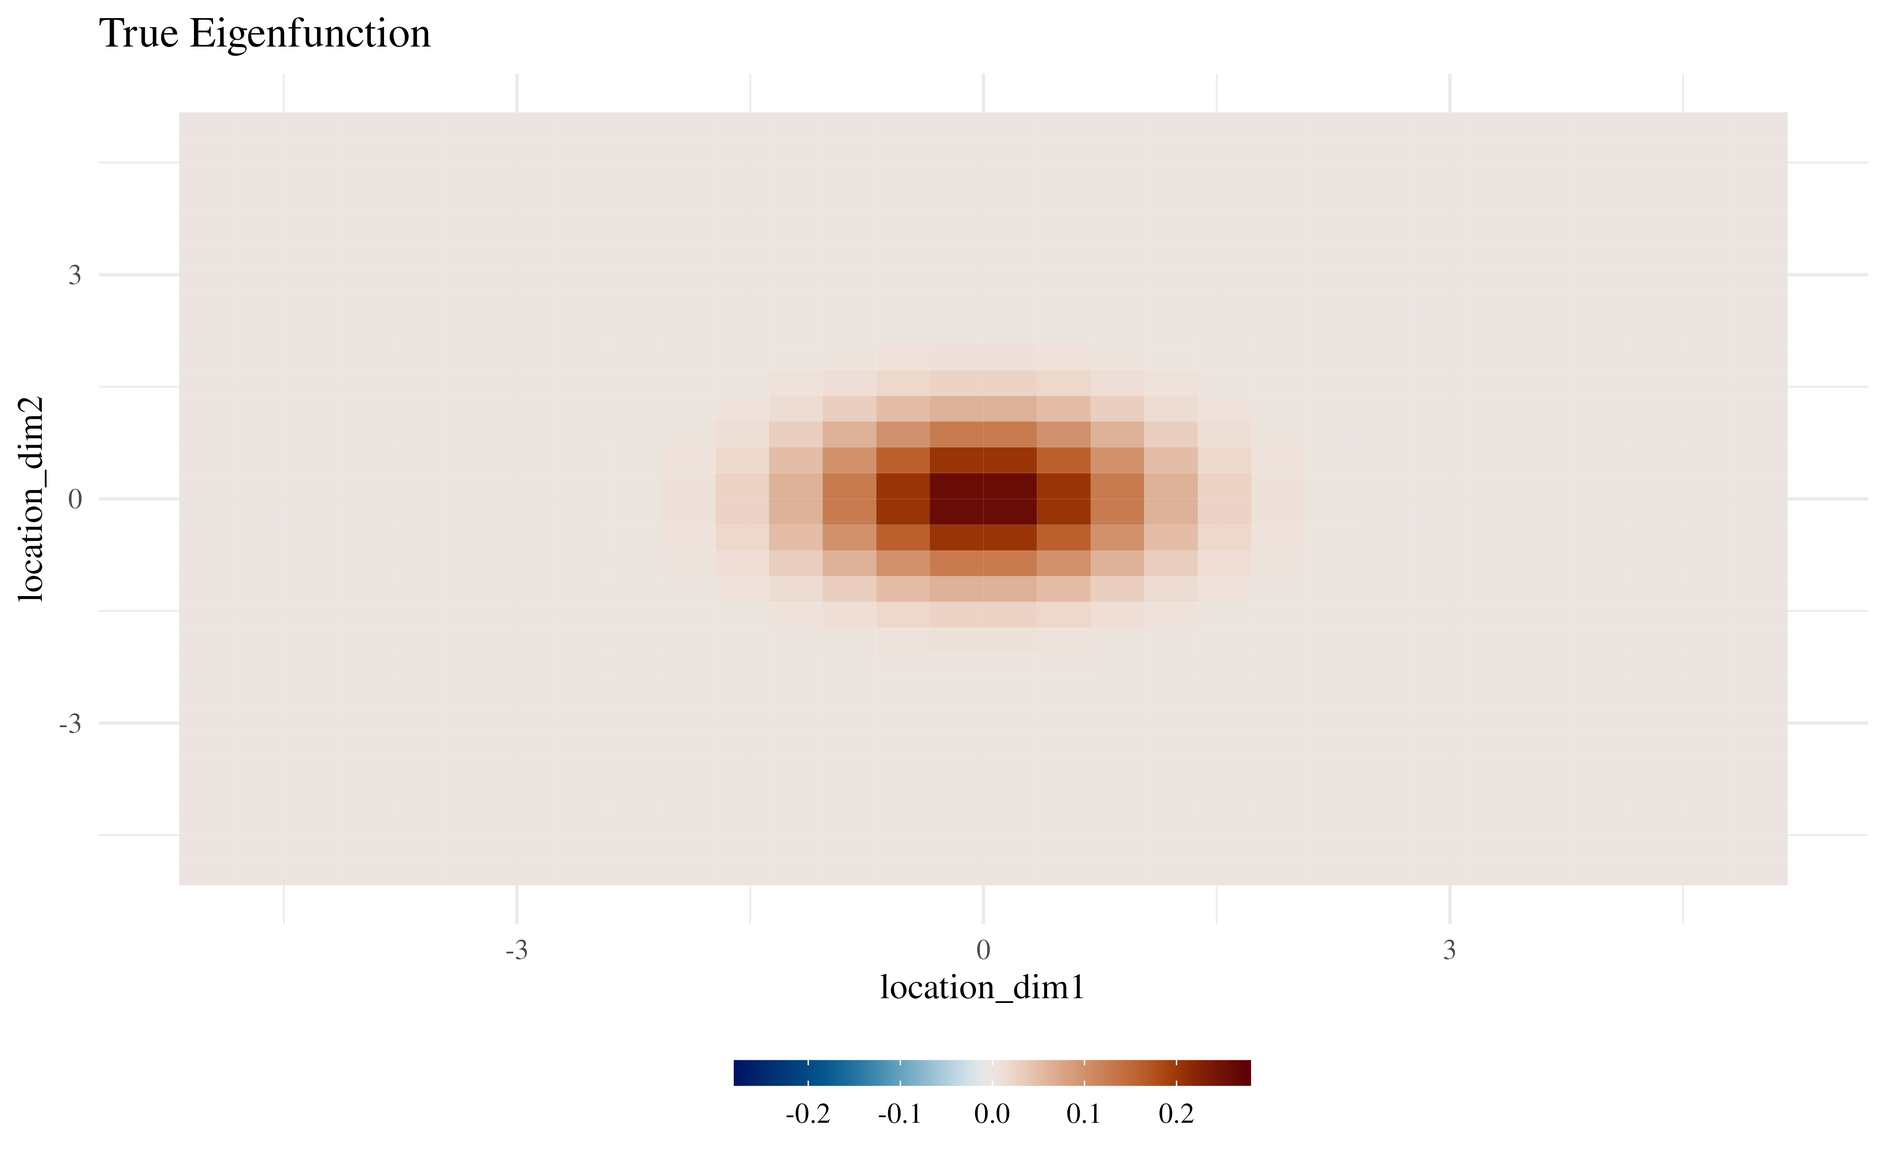
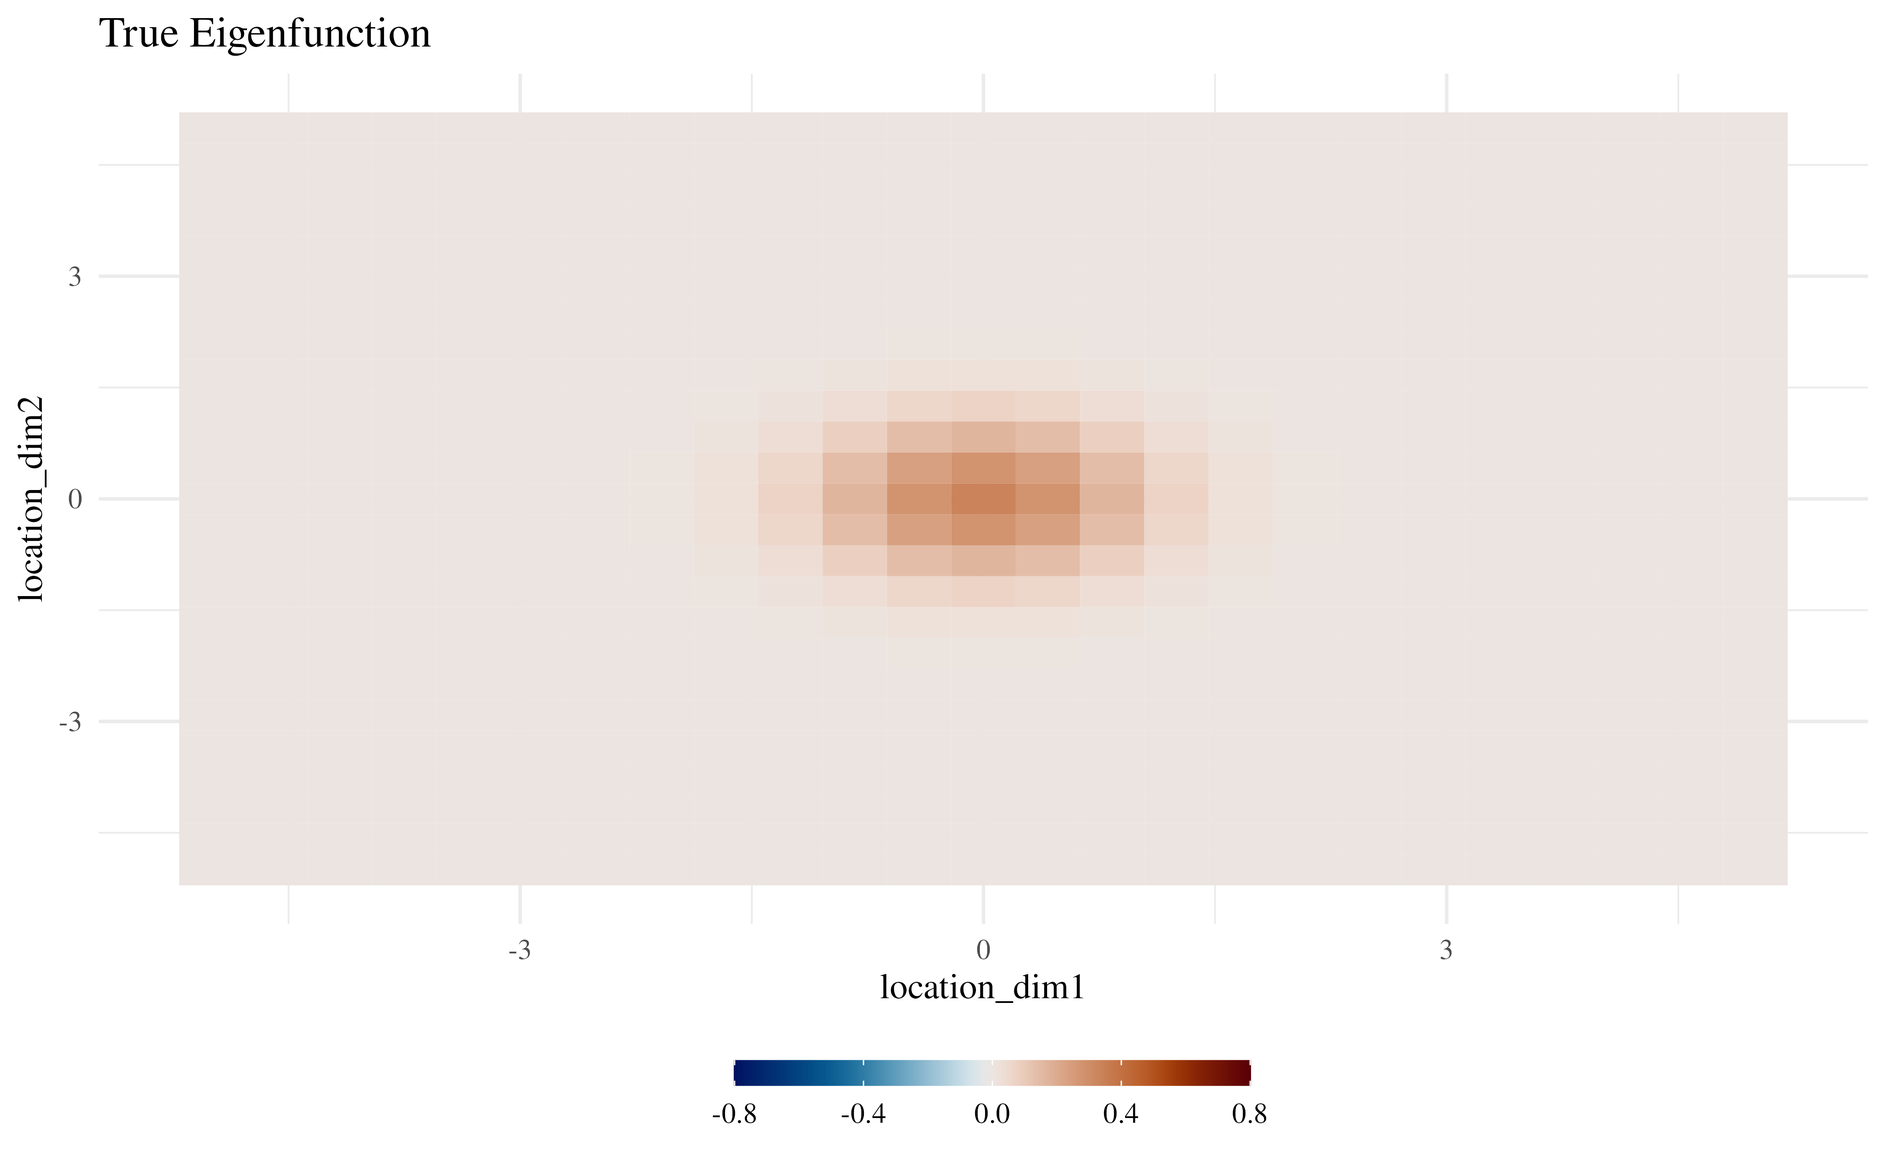
Deploying to gh-pages from @ egpivo/SpatPCA@987a5968560299c8126f24b69a79e6eec6030a43 🚀

Changed region(s): [[0.4041, 0.3418, 0.6528, 0.5283], [0.5595, 0.9323, 0.6217, 0.9634], [0.373, 0.9323, 0.4041, 0.9634]]

diff --git a/articles/demo-two-dim-location.html b/articles/demo-two-dim-location.html
@@ -33,7 +33,7 @@
       </button>
       <span class="navbar-brand">
         <a class="navbar-link" href="../index.html">SpatPCA</a>
-        <span class="version label label-default" data-toggle="tooltip" data-placement="bottom" title="">1.3.4</span>
+        <span class="version label label-default" data-toggle="tooltip" data-placement="bottom" title="">1.3.5</span>
       </span>
     </div>
 
@@ -123,7 +123,7 @@ data for capturing the most dominant spatial pattern</p>
 <span>  label.position <span class="op">=</span> <span class="st">"bottom"</span></span>
 <span><span class="op">)</span><span class="op">)</span></span>
 <span><span class="va">coltab</span> <span class="op">&lt;-</span> <span class="fu"><a href="https://rdrr.io/pkg/scico/man/scico.html" class="external-link">scico</a></span><span class="op">(</span><span class="fl">128</span>, palette <span class="op">=</span> <span class="st">"vik"</span><span class="op">)</span></span>
-<span><span class="va">color_scale_limit</span> <span class="op">&lt;-</span> <span class="fu"><a href="https://rdrr.io/r/base/c.html" class="external-link">c</a></span><span class="op">(</span><span class="op">-</span><span class="fl">.28</span>, <span class="fl">.28</span><span class="op">)</span></span></code></pre></div>
+<span><span class="va">color_scale_limit</span> <span class="op">&lt;-</span> <span class="fu"><a href="https://rdrr.io/r/base/c.html" class="external-link">c</a></span><span class="op">(</span><span class="op">-</span><span class="fl">.8</span>, <span class="fl">.8</span><span class="op">)</span></span></code></pre></div>
 </div>
 <div class="section level4">
 <h4 id="true-spatial-pattern-eigenfunction">True spatial pattern (eigenfunction)<a class="anchor" aria-label="anchor" href="#true-spatial-pattern-eigenfunction"></a>
@@ -135,8 +135,8 @@ of the curve.</li>
 </ul>
 <div class="sourceCode" id="cb2"><pre class="downlit sourceCode r">
 <code class="sourceCode R"><span><span class="fu"><a href="https://rdrr.io/r/base/Random.html" class="external-link">set.seed</a></span><span class="op">(</span><span class="fl">1024</span><span class="op">)</span></span>
-<span><span class="va">p</span> <span class="op">&lt;-</span> <span class="fl">30</span></span>
-<span><span class="va">n</span> <span class="op">&lt;-</span> <span class="fl">50</span></span>
+<span><span class="va">p</span> <span class="op">&lt;-</span> <span class="fl">25</span></span>
+<span><span class="va">n</span> <span class="op">&lt;-</span> <span class="fl">8</span></span>
 <span><span class="va">location</span> <span class="op">&lt;-</span></span>
 <span>  <span class="fu"><a href="https://rdrr.io/r/base/matrix.html" class="external-link">matrix</a></span><span class="op">(</span><span class="fu"><a href="https://rdrr.io/r/base/rep.html" class="external-link">rep</a></span><span class="op">(</span><span class="fu"><a href="https://rdrr.io/r/base/seq.html" class="external-link">seq</a></span><span class="op">(</span><span class="op">-</span><span class="fl">5</span>, <span class="fl">5</span>, length <span class="op">=</span> <span class="va">p</span><span class="op">)</span>, <span class="fl">2</span><span class="op">)</span>, nrow <span class="op">=</span> <span class="va">p</span>, ncol <span class="op">=</span> <span class="fl">2</span><span class="op">)</span></span>
 <span><span class="va">expanded_location</span> <span class="op">&lt;-</span> <span class="fu"><a href="https://rdrr.io/r/base/expand.grid.html" class="external-link">expand.grid</a></span><span class="op">(</span><span class="va">location</span><span class="op">[</span>, <span class="fl">1</span><span class="op">]</span>, <span class="va">location</span><span class="op">[</span>, <span class="fl">2</span><span class="op">]</span><span class="op">)</span></span>
@@ -176,7 +176,7 @@ normally with <span class="math inline">\(\sigma=20\)</span>
 </li>
 </ul>
 <div class="sourceCode" id="cb3"><pre class="downlit sourceCode r">
-<code class="sourceCode R"><span><span class="va">realizations</span> <span class="op">&lt;-</span> <span class="fu"><a href="https://rdrr.io/r/stats/Normal.html" class="external-link">rnorm</a></span><span class="op">(</span>n <span class="op">=</span> <span class="va">n</span>, sd <span class="op">=</span> <span class="fl">10</span><span class="op">)</span> <span class="op"><a href="https://rdrr.io/r/base/matmult.html" class="external-link">%*%</a></span> <span class="fu"><a href="https://rdrr.io/r/base/t.html" class="external-link">t</a></span><span class="op">(</span><span class="va">true_eigen_fn</span><span class="op">)</span> <span class="op">+</span> <span class="fu"><a href="https://rdrr.io/r/base/matrix.html" class="external-link">matrix</a></span><span class="op">(</span><span class="fu"><a href="https://rdrr.io/r/stats/Normal.html" class="external-link">rnorm</a></span><span class="op">(</span>n <span class="op">=</span> <span class="va">n</span> <span class="op">*</span> <span class="va">p</span><span class="op">^</span><span class="fl">2</span><span class="op">)</span>, <span class="va">n</span>, <span class="va">p</span><span class="op">^</span><span class="fl">2</span><span class="op">)</span></span></code></pre></div>
+<code class="sourceCode R"><span><span class="va">realizations</span> <span class="op">&lt;-</span> <span class="fu"><a href="https://rdrr.io/r/stats/Normal.html" class="external-link">rnorm</a></span><span class="op">(</span>n <span class="op">=</span> <span class="va">n</span>, sd <span class="op">=</span> <span class="fl">3</span><span class="op">)</span> <span class="op"><a href="https://rdrr.io/r/base/matmult.html" class="external-link">%*%</a></span> <span class="fu"><a href="https://rdrr.io/r/base/t.html" class="external-link">t</a></span><span class="op">(</span><span class="va">true_eigen_fn</span><span class="op">)</span> <span class="op">+</span> <span class="fu"><a href="https://rdrr.io/r/base/matrix.html" class="external-link">matrix</a></span><span class="op">(</span><span class="fu"><a href="https://rdrr.io/r/stats/Normal.html" class="external-link">rnorm</a></span><span class="op">(</span>n <span class="op">=</span> <span class="va">n</span> <span class="op">*</span> <span class="va">p</span><span class="op">^</span><span class="fl">2</span><span class="op">)</span>, <span class="va">n</span>, <span class="va">p</span><span class="op">^</span><span class="fl">2</span><span class="op">)</span></span></code></pre></div>
 </div>
 <div class="section level4">
 <h4 id="animate-realizations">Animate realizations<a class="anchor" aria-label="anchor" href="#animate-realizations"></a>
@@ -186,7 +186,8 @@ normally with <span class="math inline">\(\sigma=20\)</span>
 more frequently than the others.</li>
 </ul>
 <div class="sourceCode" id="cb4"><pre class="downlit sourceCode r">
-<code class="sourceCode R"><span><span class="kw">for</span> <span class="op">(</span><span class="va">i</span> <span class="kw">in</span> <span class="fl">1</span><span class="op">:</span><span class="va">n</span><span class="op">)</span> <span class="op">{</span></span>
+<code class="sourceCode R"><span><span class="va">original_par</span> <span class="op">&lt;-</span> <span class="fu"><a href="https://rdrr.io/r/graphics/par.html" class="external-link">par</a></span><span class="op">(</span><span class="op">)</span></span>
+<span><span class="kw">for</span> <span class="op">(</span><span class="va">i</span> <span class="kw">in</span> <span class="fl">1</span><span class="op">:</span><span class="va">n</span><span class="op">)</span> <span class="op">{</span></span>
 <span>  <span class="fu"><a href="https://rdrr.io/r/graphics/par.html" class="external-link">par</a></span><span class="op">(</span>mar <span class="op">=</span> <span class="fu"><a href="https://rdrr.io/r/base/c.html" class="external-link">c</a></span><span class="op">(</span><span class="fl">3</span>, <span class="fl">3</span>, <span class="fl">1</span>, <span class="fl">1</span><span class="op">)</span>, family <span class="op">=</span> <span class="st">"Times"</span><span class="op">)</span></span>
 <span>  <span class="fu"><a href="https://rdrr.io/pkg/fields/man/image.plot.html" class="external-link">image.plot</a></span><span class="op">(</span></span>
 <span>    <span class="fu"><a href="https://rdrr.io/r/base/matrix.html" class="external-link">matrix</a></span><span class="op">(</span><span class="va">realizations</span><span class="op">[</span><span class="va">i</span>, <span class="op">]</span>, <span class="va">p</span>, <span class="va">p</span><span class="op">)</span>,</span>
@@ -201,13 +202,21 @@ more frequently than the others.</li>
 <span>  <span class="op">)</span></span>
 <span><span class="op">}</span></span></code></pre></div>
 <p><img src="demo-two-dim-location_files/figure-html/unnamed-chunk-5-.gif" width="100%" style="display: block; margin: auto;"></p>
+<div class="sourceCode" id="cb5"><pre class="downlit sourceCode r">
+<code class="sourceCode R"><span><span class="fu"><a href="https://rdrr.io/r/graphics/par.html" class="external-link">par</a></span><span class="op">(</span><span class="va">original_par</span><span class="op">)</span></span>
+<span><span class="co">#&gt; Warning in par(original_par): graphical parameter "cin" cannot be set</span></span>
+<span><span class="co">#&gt; Warning in par(original_par): graphical parameter "cra" cannot be set</span></span>
+<span><span class="co">#&gt; Warning in par(original_par): graphical parameter "csi" cannot be set</span></span>
+<span><span class="co">#&gt; Warning in par(original_par): graphical parameter "cxy" cannot be set</span></span>
+<span><span class="co">#&gt; Warning in par(original_par): graphical parameter "din" cannot be set</span></span>
+<span><span class="co">#&gt; Warning in par(original_par): graphical parameter "page" cannot be set</span></span></code></pre></div>
 </div>
 <div class="section level4">
 <h4 id="apply-spatpcaspatpca">Apply <code>SpatPCA::spatpca</code><a class="anchor" aria-label="anchor" href="#apply-spatpcaspatpca"></a>
 </h4>
 <p>We add a candidate set of <code>tau2</code> to see how
 <strong>SpatPCA</strong> obtain a localized smooth pattern.</p>
-<div class="sourceCode" id="cb5"><pre class="downlit sourceCode r">
+<div class="sourceCode" id="cb6"><pre class="downlit sourceCode r">
 <code class="sourceCode R"><span><span class="va">tau2</span> <span class="op">&lt;-</span> <span class="fu"><a href="https://rdrr.io/r/base/c.html" class="external-link">c</a></span><span class="op">(</span><span class="fl">0</span>, <span class="fu"><a href="https://rdrr.io/r/base/Log.html" class="external-link">exp</a></span><span class="op">(</span><span class="fu"><a href="https://rdrr.io/r/base/seq.html" class="external-link">seq</a></span><span class="op">(</span><span class="fu"><a href="https://rdrr.io/r/base/Log.html" class="external-link">log</a></span><span class="op">(</span><span class="fl">10</span><span class="op">)</span>, <span class="fu"><a href="https://rdrr.io/r/base/Log.html" class="external-link">log</a></span><span class="op">(</span><span class="fl">400</span><span class="op">)</span>, length <span class="op">=</span> <span class="fl">10</span><span class="op">)</span><span class="op">)</span><span class="op">)</span></span>
 <span><span class="va">cv</span> <span class="op">&lt;-</span> <span class="fu"><a href="../reference/spatpca.html">spatpca</a></span><span class="op">(</span>x <span class="op">=</span> <span class="va">expanded_location</span>, Y <span class="op">=</span> <span class="va">realizations</span>, tau2 <span class="op">=</span> <span class="va">tau2</span><span class="op">)</span></span>
 <span><span class="va">eigen_est</span> <span class="op">&lt;-</span> <span class="va">cv</span><span class="op">$</span><span class="va">eigenfn</span></span></code></pre></div>
@@ -217,7 +226,7 @@ more frequently than the others.</li>
 </h4>
 <p>The following figure shows that <strong>SpatPCA</strong> can find
 sparser pattern than PCA, which is close to the true pattern.</p>
-<div class="sourceCode" id="cb6"><pre class="downlit sourceCode r">
+<div class="sourceCode" id="cb7"><pre class="downlit sourceCode r">
 <code class="sourceCode R"><span><span class="fu"><a href="https://rdrr.io/r/base/data.frame.html" class="external-link">data.frame</a></span><span class="op">(</span></span>
 <span>  location_dim1 <span class="op">=</span> <span class="va">expanded_location</span><span class="op">[</span>, <span class="fl">1</span><span class="op">]</span>,</span>
 <span>  location_dim2 <span class="op">=</span> <span class="va">expanded_location</span><span class="op">[</span>, <span class="fl">2</span><span class="op">]</span>,</span>

diff --git a/index.html b/index.html
@@ -35,7 +35,7 @@
       </button>
       <span class="navbar-brand">
         <a class="navbar-link" href="index.html">SpatPCA</a>
-        <span class="version label label-default" data-toggle="tooltip" data-placement="bottom" title="">1.3.4</span>
+        <span class="version label label-default" data-toggle="tooltip" data-placement="bottom" title="">1.3.5</span>
       </span>
     </div>
 
@@ -85,7 +85,7 @@
 <div class="section level1">
 <div class="page-header"><h1 id="spatpca-package">SpatPCA Package<a class="anchor" aria-label="anchor" href="#spatpca-package"></a>
 </h1></div>
-<p><a href="https://github.com/egpivo/SpatPCA/actions" class="external-link"><img src="https://github.com/egpivo/SpatPCA/workflows/R-CMD-check/badge.svg" alt="R build status"></a> <a href="https://app.codecov.io/github/egpivo/SpatpCA?branch=master" class="external-link"><img src="https://img.shields.io/codecov/c/github/egpivo/SpatPCA/master.svg" alt="Coverage Status"></a></p>
+<p><a href="https://CRAN.R-project.org/package=SpatPCA" class="external-link"><img src="http://www.r-pkg.org/badges/version/SpatPCA" alt="CRAN_Status_Badge"></a> <a href="https://CRAN.R-project.org/package=SpatPCA" class="external-link"><img src="http://cranlogs.r-pkg.org/badges/grand-total/SpatPCA" alt="Downloads"></a> <a href="https://github.com/egpivo/SpatPCA/actions" class="external-link"><img src="https://github.com/egpivo/SpatPCA/workflows/R-CMD-check/badge.svg" alt="R build status"></a> <a href="https://app.codecov.io/github/egpivo/SpatpCA?branch=master" class="external-link"><img src="https://img.shields.io/codecov/c/github/egpivo/SpatPCA/master.svg" alt="Coverage Status"></a></p>
 <div class="section level2">
 <h2 id="description">Description<a class="anchor" aria-label="anchor" href="#description"></a>
 </h2>

diff --git a/authors.html b/authors.html
@@ -17,7 +17,7 @@
       </button>
       <span class="navbar-brand">
         <a class="navbar-link" href="index.html">SpatPCA</a>
-        <span class="version label label-default" data-toggle="tooltip" data-placement="bottom" title="">1.3.4</span>
+        <span class="version label label-default" data-toggle="tooltip" data-placement="bottom" title="">1.3.5</span>
       </span>
     </div>
 
@@ -80,13 +80,13 @@
 
     <p>Wang W, Huang H (2023).
 <em>SpatPCA: Regularized Principal Component Analysis for Spatial Data</em>.
-R package version 1.3.4, <a href="https://github.com/egpivo/SpatPCA" class="external-link">https://github.com/egpivo/SpatPCA</a>. 
+R package version 1.3.5, <a href="https://github.com/egpivo/SpatPCA" class="external-link">https://github.com/egpivo/SpatPCA</a>. 
 </p>
     <pre>@Manual{,
   title = {SpatPCA: Regularized Principal Component Analysis for Spatial Data},
   author = {Wen-Ting Wang and Hsin-Cheng Huang},
   year = {2023},
-  note = {R package version 1.3.4},
+  note = {R package version 1.3.5},
   url = {https://github.com/egpivo/SpatPCA},
 }</pre>
 

diff --git a/reference/plot.spatpca.html b/reference/plot.spatpca.html
@@ -17,7 +17,7 @@
       </button>
       <span class="navbar-brand">
         <a class="navbar-link" href="../index.html">SpatPCA</a>
-        <span class="version label label-default" data-toggle="tooltip" data-placement="bottom" title="">1.3.4</span>
+        <span class="version label label-default" data-toggle="tooltip" data-placement="bottom" title="">1.3.5</span>
       </span>
     </div>
 
@@ -80,6 +80,12 @@
 <dd><p>Not used directly</p></dd>
 
 </dl></div>
+    <div id="value">
+    <h2>Value</h2>
+    
+
+<p><code>NULL</code>.</p>
+    </div>
     <div id="see-also">
     <h2>See also</h2>
     <div class="dont-index"><p><a href="spatpca.html">spatpca</a></p></div>

diff --git a/reference/checkInputData.html b/reference/checkInputData.html
@@ -17,7 +17,7 @@
       </button>
       <span class="navbar-brand">
         <a class="navbar-link" href="../index.html">SpatPCA</a>
-        <span class="version label label-default" data-toggle="tooltip" data-placement="bottom" title="">1.3.4</span>
+        <span class="version label label-default" data-toggle="tooltip" data-placement="bottom" title="">1.3.5</span>
       </span>
     </div>
 
@@ -83,6 +83,12 @@
 <dd><p>Number of folds for cross-validation</p></dd>
 
 </dl></div>
+    <div id="value">
+    <h2>Value</h2>
+    
+
+<p><code>NULL</code>.</p>
+    </div>
 
   </div>
   <div class="col-md-3 hidden-xs hidden-sm" id="pkgdown-sidebar">

diff --git a/reference/checkNewLocationsForSpatpcaObject.html b/reference/checkNewLocationsForSpatpcaObject.html
@@ -17,7 +17,7 @@
       </button>
       <span class="navbar-brand">
         <a class="navbar-link" href="../index.html">SpatPCA</a>
-        <span class="version label label-default" data-toggle="tooltip" data-placement="bottom" title="">1.3.4</span>
+        <span class="version label label-default" data-toggle="tooltip" data-placement="bottom" title="">1.3.5</span>
       </span>
     </div>
 
@@ -79,6 +79,12 @@
 <dd><p>New location matrix.</p></dd>
 
 </dl></div>
+    <div id="value">
+    <h2>Value</h2>
+    
+
+<p><code>NULL</code>.</p>
+    </div>
 
   </div>
   <div class="col-md-3 hidden-xs hidden-sm" id="pkgdown-sidebar">

diff --git a/articles/demo-one-dim-location.html b/articles/demo-one-dim-location.html
@@ -33,7 +33,7 @@
       </button>
       <span class="navbar-brand">
         <a class="navbar-link" href="../index.html">SpatPCA</a>
-        <span class="version label label-default" data-toggle="tooltip" data-placement="bottom" title="">1.3.4</span>
+        <span class="version label label-default" data-toggle="tooltip" data-placement="bottom" title="">1.3.5</span>
       </span>
     </div>
 

diff --git a/articles/index.html b/articles/index.html
@@ -17,7 +17,7 @@
       </button>
       <span class="navbar-brand">
         <a class="navbar-link" href="../index.html">SpatPCA</a>
-        <span class="version label label-default" data-toggle="tooltip" data-placement="bottom" title="">1.3.4</span>
+        <span class="version label label-default" data-toggle="tooltip" data-placement="bottom" title="">1.3.5</span>
       </span>
     </div>
 

diff --git a/news/index.html b/news/index.html
@@ -17,7 +17,7 @@
       </button>
       <span class="navbar-brand">
         <a class="navbar-link" href="../index.html">SpatPCA</a>
-        <span class="version label label-default" data-toggle="tooltip" data-placement="bottom" title="">1.3.4</span>
+        <span class="version label label-default" data-toggle="tooltip" data-placement="bottom" title="">1.3.5</span>
       </span>
     </div>
 

diff --git a/reference/SpatPCA-package.html b/reference/SpatPCA-package.html
@@ -17,7 +17,7 @@
       </button>
       <span class="navbar-brand">
         <a class="navbar-link" href="../index.html">SpatPCA</a>
-        <span class="version label label-default" data-toggle="tooltip" data-placement="bottom" title="">1.3.4</span>
+        <span class="version label label-default" data-toggle="tooltip" data-placement="bottom" title="">1.3.5</span>
       </span>
     </div>
 

diff --git a/reference/detrend.html b/reference/detrend.html
@@ -17,7 +17,7 @@
       </button>
       <span class="navbar-brand">
         <a class="navbar-link" href="../index.html">SpatPCA</a>
-        <span class="version label label-default" data-toggle="tooltip" data-placement="bottom" title="">1.3.4</span>
+        <span class="version label label-default" data-toggle="tooltip" data-placement="bottom" title="">1.3.5</span>
       </span>
     </div>
 

diff --git a/reference/eigenFunction.html b/reference/eigenFunction.html
@@ -17,7 +17,7 @@
       </button>
       <span class="navbar-brand">
         <a class="navbar-link" href="../index.html">SpatPCA</a>
-        <span class="version label label-default" data-toggle="tooltip" data-placement="bottom" title="">1.3.4</span>
+        <span class="version label label-default" data-toggle="tooltip" data-placement="bottom" title="">1.3.5</span>
       </span>
     </div>
 
